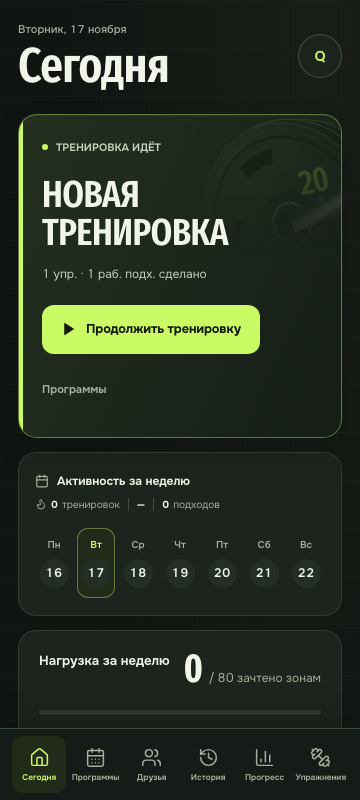
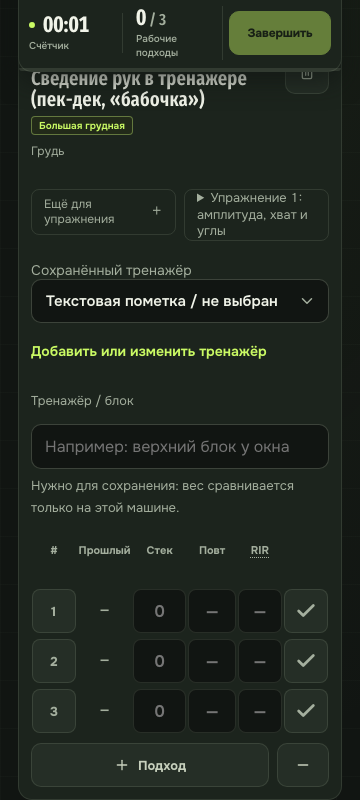
docs(round-11): QA перепроверка 6acb136 — в работе (QA-R11-09 High: остаток первого касания)

diff --git a/docs/agent-evolution/round-11-qa-recheck-report.md b/docs/agent-evolution/round-11-qa-recheck-report.md
@@ -1,0 +1,88 @@
+# Раунд 11 — отчёт QA: перепроверка доработки №1
+
+- **Проверяемый HEAD:** `6acb136` («Раунд 11: отчёт инженера по доработке»; код — `20d8fb6`, `7937878`, `48696e4`, `c4bf94f`), ветка `agents/tyaga-30-rounds`. Предыдущий QA-отчёт — `aff4a0f` (проверялся `6ad12b7`).
+- **Дата:** 17.11.2026.
+- **Среда:** локальный стенд `wrangler dev --local` с `server/cloud.ts` (мульти-аккаунт, вход по почте), ассеты из `dist/client` этого HEAD (собран не мной); порты **8861** — HEAD, **8862** — база R10 (`8687669`, для сравнения «было/стало»), **8863/8864** — только `vite preview` для повторов нестабильного теста (HEAD / база R10); единый Playwright — на 8787/5173 последним, при остановленных стендах. Две страницы одного `context` = два окна одного аккаунта; касание — `locator.tap()` / `touchscreen.tap` / CDP `Input.dispatchTouchEvent`, мышь — `click` / `mouse.dblclick`.
+- **Размеры:** 390×844, 360×800, 320×640.
+- **Не менялось:** код продукта, тесты, `dist`, прод; push/deploy/`--remote` не выполнялись.
+
+## Итог
+
+Из шести исправлений **пять приняты** (QA-R11-02, -03, -05, -06, -07), **QA-R11-01 принято частично: «первое касание» исправлено, но тот же дефект достижим вторым нажатием в ту же точку и двойным тапом/кликом — новая находка QA-R11-09 (High).** Причина осталась прежней — исчезновение строки «открыта в другом окне» сдвигает вёрстку на 123–143 px, а защита глушит только один жест.
+
+| Находки | Blocker | High | Medium | Low |
+|---|---|---|---|---|
+| новые (QA-R11-09…11) | 0 | **1** | 0 | 2 |
+
+| QA | Статус | Комментарий |
+|---|---|---|
+| QA-R11-01 (High) первое касание | **исправлено частично** | первое касание/клик больше ничего не меняет (390/360/320, tap и мышь, 5 целей) → **но** повтор в ту же точку и двойной тап/клик по-прежнему меняют вес выполненного подхода: **QA-R11-09 (High)** |
+| QA-R11-02 (Medium) дубль вкладки | **исправлено** | id окна — на загрузку документа; `sessionStorage` пуст; две «основные» невозможны; подходы не пропадают |
+| QA-R11-03 (Medium) неделя 10 | **исправлено** | красных «Пропущена» 0 (было 5 в списке + 5 в расписании); недели 1–9 без изменений |
+| QA-R11-05 (Low) копия Лейда | **исправлено** | подпись видна при расхождении и скрыта при совпадении; старт совпадает с подписью |
+| QA-R11-06 (Low) гонка «Начать» | **исправлено** | 32 гонки: ровно одна основная, один ключ; было «обе ведомые» в 5 из 10 |
+| QA-R11-07 (Low) журнал веса | **исправлено** | простой двух окон: 0 записей / 18 с (на R10 — 2332, ≈130 в секунду) |
+| Регрессии доработки | **1 High, 2 Low** | QA-R11-09, -10, -11; регрессий REQ02/03/04/05/06/07 и профиля нет |
+| Нестабильный R09-REQ01 | __FLAKY_SHORT__ | см. раздел «Нестабильный тест» |
+
+## Новые находки
+
+### QA-R11-09 · High · повтор нажатия в ту же точку и двойной тап/клик по-прежнему меняют вес выполненного подхода (остаток QA-R11-01)
+
+**Шаги** (390×844, 360×800, 320×640; сенсорный ввод и мышь): вкладка 1 — «Жим штанги лёжа», подход 1 = 80×5 ✓; вкладка 2 «Продолжить тренировку» (становится основной, вкладка 1 — ведомой). Во вкладке 1 нажать ✓ подхода 2 (точка (336, 681) на 390): строка «открыта в другом окне» исчезает, вёрстка уезжает вверх на 123–143 px, показан тост «Это окно стало основным — нажми ещё раз», данные целы (**это исправлено**). Затем:
+1. нажать **в ту же точку** экрана ещё раз — через 0,9 с или через 2,5 с (естественная реакция на тост «нажми ещё раз»);
+2. либо **двойной тап** (интервал 70 или 200 мс) / **двойной клик мышью** по ✓ подхода 2 в ведомом окне.
+
+**Ожидаемо:** подход 2 отмечен либо ничего не изменилось. **Фактически:** под точкой после сдвига оказывается «+5» («+2,5» на 320) панели «Быстрая правка · подход 1»; нажатие меняет вес **выполненного** подхода 1: 80 → **85** (390, 360), 80 → **82,5** (320), тоннаж растёт, сообщения нет. Воспроизведено во всех 12 вариантах (3 размера × tap/мышь × паузы 0,9/2,5 с) и в 6 вариантах двойного нажатия (390/320 × двойной тап 70 мс, 200 мс, двойной клик).
+
+**Почему важно:** ровно тот же молчаливый вред, что в QA-R11-01 (High), причём тост сам приглашает нажать «ещё раз», а двойной тап/клик — привычный жест. Защита (`useDraftTabs.ts`, «глушение» остатка одного жеста) лечит симптом первого касания, но не причину: после смены роли строка `draft-follower` исчезает из потока (`App.tsx:1387-1394`), и содержимое перестраивается под пальцем. Любое следующее нажатие в старую точку попадает в другой элемент.
+
+Снимки: `round-11-qa-screenshots/rc-samespot-tap-390-after-first.png`, `…-320-after-first.png` (после первого нажатия, видны тост и сдвиг), `…-after-second.png` (после второго).
+Код: `src/lib/useDraftTabs.ts` (обработчик `down`: `swallowUntil`), `src/App.tsx:1387`.
+
+**Предложение:** убрать причину — не менять высоту контента при смене роли: оставить строку на месте и переключить её в «Это окно основное» (текст/цвет), либо резервировать её высоту (`min-height`) на 5–10 с после смены, либо вынести строку из потока (`position: sticky` + отступ, заданный заранее). Глушение жеста оставить как второй рубеж.
+
+### QA-R11-10 · Low · свайп в ведомом окне делает его основным с тостом «нажми ещё раз», а клавиатурный «клик» в течение 3 с после глушения теряется
+
+(а) Прокрутка в ведомом окне (свайп без касаний кнопок) — это тоже `pointerdown`: окно становится основным, показывается тост «нажми ещё раз», хотя человек ничего не нажимал; прокрутка при этом работает, данные целы (390 и 320, 4 паузы). (б) Окно глушения — 3 с по времени, а сбрасывается только следующим `pointerdown`: Enter на сфокусированном ✓ в течение 0,5 с после свайпа (`click` без `pointerdown`) глушится молча; через 0,5 / 1,5 / 2,8 / 3,3 с настоящее **касание** после свайпа срабатывает без потерь. Клавиатурное нажатие без предшествующего глушённого жеста срабатывает сразу.
+
+### QA-R11-11 · Low · тост «Это окно стало основным — нажми ещё раз» на ≈5 с закрывает управляющие кнопки
+
+Тост — `position: fixed; top: 72px … 136px`, читается целиком (в пределах экрана на 390/360/320), живёт 4,7–5,0 с. Под ним: на 390 — «Свернуть тренировку», «Фокус», «Звук», «Отмена»; на 360 — ещё и «Завершить тренировку»; на 320 — поля и ✓ подхода 1 (когда лента прокручена к подходам). Касание в закрытую зону приходится на тост, а не на кнопку; ошибочного действия нет (проверено наличием, перекрытие измерено по `getBoundingClientRect`) — но именно в эти секунды пользователя просят «нажать ещё раз». Снимки: `rc-toast-{390,360,320}.png`.
+
+## Что проверено и чисто
+
[1 lines of base64/hex data omitted]
+
+**QA-R11-02.** `sessionStorage` в окне пуст (id больше не хранится) — копия при «Дублировать вкладку» (init-скрипт со всем `sessionStorage` первого окна) и реальный `window.open` дают окна с разными id: ровно одно ведомое, подходы 1, 2, 3 отмечены в разных окнах и ни один не пропал, после перезагрузки те же три ✓. Перезагрузка единственного окна-владельца: владелец возвращается за **431–440 мс** (на «Сегодня» и после тренировки с таймером отдыха), строка «в другом окне» ни разу не вставлялась (`MutationObserver` с `document-start`), `layout-shift` 0, первое нажатие после возврата отмечает подход 2. Перезагрузка с живым вторым окном: владелец (другое окно) остался основным. Обе вкладки перезагружаются одновременно: подходы 1–3 из двух окон сохранены. Нет `BroadcastChannel`: владелец не меняется до нажатия, ничего не потеряно. Владелец закрыт, новое окно: становится основным за 318 мс без строки, подход 1 ✓ цел. **Замечание о вёрстке:** после перезагрузки приложение всегда открывается на «Сегодня», где строки нет, — «без мигания в «Тренировке»» проверено прямым наблюдением, что строка не вставляется в DOM вообще.
+
+**QA-R11-03.** Неделя 10 (16 и 17 нояб., 390 и 320): красных «Пропущена» **0** (в списке и на странице), «Цикл закончен» у пяти программ, «Сделана 10 нояб.» у сделанной; недели 1 (пн), 2, 5, 9 (вт и вс): строки списка и карточка программы **идентичны базе R10** (1/2 красных на 2-й и 5-й, 5 на 9-й воскресной — как раньше), расписание отличается только строкой R11 «По истории — лучшая оценка 1ПМ (Эпли) … за 26 недель». Снимки: `rc-week10-list-{390,320}.png`, `rc-week10-list-{390,320}-rows.png`.
+
+**QA-R11-05.** История жима 90×3 при 75 в поле: подпись «Начнёшь с веса из истории: 90 кг», старт — 90; история 75×1 = плану: подписи про жим нет, старт — 75; история 77,5×2: подпись «77,5 кг», старт — 77,5; истории нет: «Вес по плану: 75 кг», старт — 75; вспомогательное «Разведения» — подпись «12,5 кг» и старт 12,5 как раньше. Обычные программы: условие скрытия включается только для копии Лейда (`laidCopy`), для остальных не менялось (по коду и по прежнему e2e).
+
+**QA-R11-06.** 32 гонки «Начать» в двух вкладках (задержка второго клика 0 / 5 / 20 / 50 мс × 8, первой стартует то p1, то p2): в 30 — ровно одно окно основное и одно ведомое, один ключ, владелец добавляет упражнение и ✓, ведомое видит ту же тренировку (вес 80), id тренировки не меняется; в 2 (50 мс) к моменту второго клика во второй вкладке «Начать» уже заменено на «Продолжить тренировку» — исход верный (одна тренировка, одно основное окно). Прежнего исхода «обе вкладки ведомые» не было ни разу.
+
+**QA-R11-07.** Два видимых окна одного аккаунта, простой 18 с: HEAD — **0 событий, 0 записей** `tyaga-bodyweight-sync`; R10 — 1166 событий в каждом окне и **2332 записи (≈130 в секунду)**. Замер 82,4 из окна 1 доходит до окна 2 за 42 мс; офлайн-замер 81,2: `pending` 1 → 0 после возврата сети, на сервере ровно один документ (`revision 1`), зависших записей нет, 8 с простоя после — 0 записей.
+
+**Регрессии REQ02 (ранее чистые):** A (потерянные `storage` → `focus`/`visibilitychange`: черновик убран, ключ не воскрес 10 с); B (`localStorage` бросает: приложение живо, подход отмечен, ошибок страницы нет, второе окно открывается); C (нет `BroadcastChannel`); G (владелец закрыт); H1–H3 (R09 QA-08/09 при потерянных событиях: ключ не воскресает, в истории одна тренировка, «Отмена» устаревшего окна не глушит новую тренировку); «Сохранить мою отдельной» (две тренировки 75 и 80, ключ не воскресает); комната «Вместе» (✓ из второй вкладки доходит, «Завершить» → `done` и через 15 с); смена аккаунта в одной вкладке (каналы 2 открыто / 1 закрыто, ключ черновика прежнего аккаунта удалён, у нового нет чужого «Продолжить»); «Начать» программу при чужом черновике (подход 101×6 ✓ не потерян); офлайн-завершение (одна запись в истории, ведомое окно не держит закрытую тренировку); выход из аккаунта (через 6 с в `localStorage` нет данных аккаунта); простой (0 записей ключа за 35 с).
+**REQ03/04/05/06/07 — по одному прогону:** REQ03 12/12; REQ04: «+18/117» 3/3, окна оценок 18/18, неделя 10 — см. QA-R11-03; REQ05 149 OK и 1 ложное срабатывание моего ожидания («сведение рук» — первой в выдаче пек-дек, а не кроссовер: так было и в первом отчёте); REQ06 (401, 503, обрыв, граница ошибок) 30/30 и 11/11; REQ07 14/14.
+
+## Нестабильный тест `R09-REQ01: правка сохранённой тренировки в комнате`
+
+__FLAKY__
+
+## Не проверено и почему
+
+- **Safari iOS / реальный телефон:** на реальном сенсоре событие `click` приходит позже `pointerdown`, поведение `stopImmediatePropagation` для `touch*` и ленивого `click` проверено только в Chromium (tap и CDP).
+- **Две вкладки на разных устройствах:** окна одного браузера; конфликт между устройствами — домен синхронизации, вне R11.
+- **Заморозка вкладки системой** — эмулировалась потерей `storage` и событием `focus`.
+- **Светлой темы в продукте нет** (пять акцентов); QA-R11-08 (контраст «+2,5 кг» на «Фиолетовом») не делался по решению lead и не перепроверялся; QA-R11-04 — тоже.
+- **Файлы `agent-po-initial.spec.ts` и `agent-qa-baseline.spec.ts`** вне единого прогона (ждут сервер :8796).
+
+## Числа
+
+__GATES__
+
+## Среда и уборка
+
+__CLEAN__
